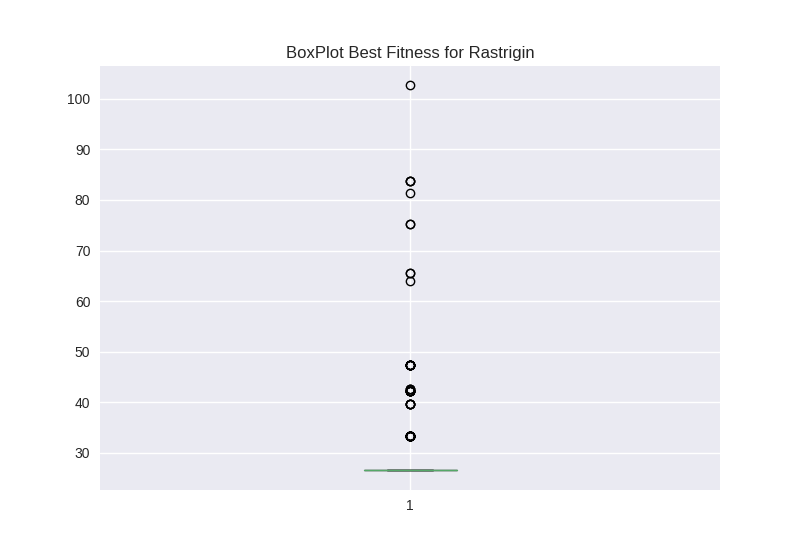
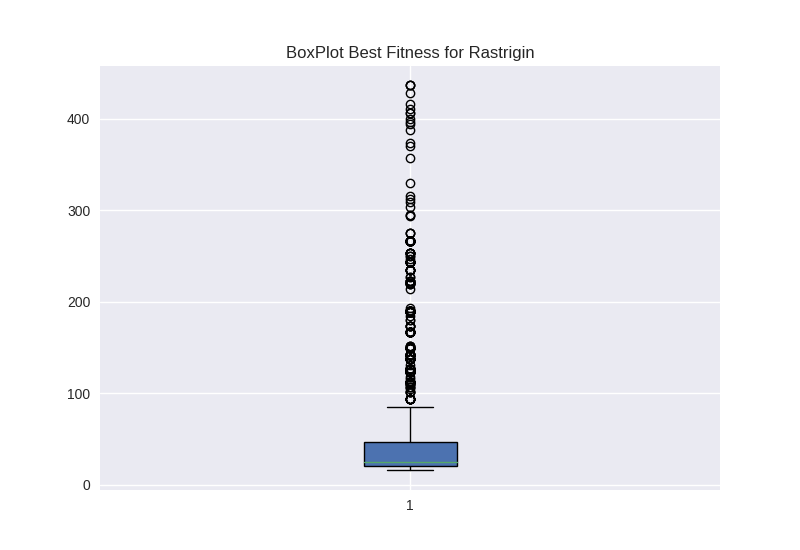
Working version of FSS

diff --git a/fish_school_search.py b/fish_school_search.py
@@ -7,6 +7,7 @@ import math
 from particle import Fish
 from parameters import num_of_individuos, dimensions, iterations_number
 
+np.random.seed(42)
 
 class FSS():
 
@@ -21,12 +22,12 @@ class FSS():
 
         # Params
         self.total_weight = 1 * self.num_of_individuos
-        self.initial_step_ind = 1
+        self.initial_step_ind = 0.1
         self.final_step_ind = 0.0001
-        self.step_ind = self.initial_step_ind
-        self.initial_step_vol = 1
+        self.step_ind = self.initial_step_ind * (objective_function.upper_bound - objective_function.lower_bound)
+        self.initial_step_vol = 0.01
         self.final_step_vol = 0.001
-        self.step_vol = self.initial_step_vol
+        self.step_vol = self.initial_step_vol * (objective_function.upper_bound - objective_function.lower_bound)
         self.list_global_best_values = []
 
     def search(self):
@@ -37,10 +38,10 @@ class FSS():
             self.updates_optimal_solution()
 
             self.apply_individual_movement()
-            self.apply_feeding()
-
             self.evaluate_cluster()
             self.updates_optimal_solution()
+
+            self.apply_feeding()
 
             self.apply_instintive_collective_movement()
             self.apply_collective_volitive_movement()
@@ -50,9 +51,8 @@ class FSS():
 
             self.evaluate_cluster()
             self.updates_optimal_solution()
-
             self.list_global_best_values.append(self.global_best)
-            # print("iter: {} = cost: {}".format(i, self.global_best))
+            print("iter: {} = cost: {}".format(i, self.global_best))
 
     def update_total_weight(self):
         self.total_weight = sum([fish.weight for fish in self.cluster])
@@ -105,8 +105,10 @@ class FSS():
             fish.update_position_volitive_movement(barycenter, self.step_vol, search_operator)
 
     def update_step(self, current_i):
-        self.step_ind = self.step_ind - current_i * float(self.final_step_ind - self.initial_step_ind)/iterations_number
-        self.step_vol = self.step_vol - current_i * float(self.final_step_vol - self.initial_step_vol)/iterations_number
+        self.step_ind = self.initial_step_ind - current_i * float(
+            self.initial_step_ind - self.final_step_ind) / iterations_number
+        self.step_vol = self.initial_step_vol - current_i * float(
+            self.initial_step_vol - self.final_step_vol) / iterations_number
 
     def _get_random_number(self):
         return np.random.uniform(self.function.lower_bound, self.function.upper_bound)

diff --git a/particle.py b/particle.py
@@ -3,6 +3,7 @@ import copy
 import random
 from parameters import dimensions, iterations_number
 
+np.random.seed(42)
 
 class Particle():
 
@@ -26,7 +27,7 @@ class Fish():
     def __init__(self, objective_function, positions):
         self.fitness_function = objective_function
         self.current_position = positions
-        self.weight = 1.0
+        self.weight = iterations_number / 2.0
         self.fitness = np.inf
         self.delta_fitness = 0
         self.delta_position = []
@@ -57,23 +58,21 @@ class Fish():
             self.delta_fitness = 0
 
     def feed(self, max_delta_fitness):
-        if max_delta_fitness < 1:
-            self.weight = 1
-        else:
+        if max_delta_fitness != 0:
             self.weight = self.weight + (self.delta_fitness / max_delta_fitness)
-
-        if self.weight > (iterations_number / 2.0):
-            self.weight = iterations_number / 2.0
+        else:
+            self.weight = 1
 
     def update_position_collective_movement(self, sum_delta_fitness):
-        collective_instinct = [pos * self.delta_fitness for pos in self.delta_position]
-
+        collective_instinct = []
+        for i, _ in enumerate(self.delta_position):
+            collective_instinct.append(self.delta_position[i] * self.delta_fitness)
         if sum_delta_fitness != 0:
             collective_instinct = [val / sum_delta_fitness for val in collective_instinct]
 
         new_positions = []
-        for pos, mov in zip(self.current_position, collective_instinct):
-            new = pos + mov
+        for i, _ in enumerate(self.current_position):
+            new = self.current_position[i] + collective_instinct[i]
             if new > self.fitness_function.upper_bound:
                 new = self.fitness_function.upper_bound
             elif new < self.fitness_function.lower_bound:
@@ -86,7 +85,7 @@ class Fish():
     def update_position_volitive_movement(self, barycenter, step_vol, search_operator):
         new_positions = []
         for i, pos in enumerate(self.current_position):
-            new = pos + ((((pos - barycenter[i])/ np.linalg.norm([self.current_position, barycenter])) * step_vol * np.random.uniform(0, 1)) * search_operator)
+            new = pos + (((pos - barycenter[i]) * step_vol * np.random.uniform(0, 1)) * search_operator)
             if new > self.fitness_function.upper_bound:
                 new = self.fitness_function.upper_bound
             elif new < self.fitness_function.lower_bound:

diff --git a/functions.py b/functions.py
@@ -1,53 +1,52 @@
 import math
-
+import numpy as np
 from abc import ABCMeta, abstractmethod
 
+np.random.seed(42)
 
 class AFunction:
-	__metaclass__ = ABCMeta
+    __metaclass__ = ABCMeta
 
-	upper_bound = 100
-	lower_bound = -100
+    upper_bound = 100
+    lower_bound = -100
 
-	@abstractmethod
-	def calculate_fitness(self, position):
-		pass
+    @abstractmethod
+    def calculate_fitness(self, position):
+        pass
 
 
 class Sphere(AFunction):
 
-	def __init__(self):
-		AFunction.upper_bound = 100
-		AFunction.lower_bound = -100
+    def __init__(self):
+        AFunction.upper_bound = 100
+        AFunction.lower_bound = -100
 
-	def calculate_fitness(self, position_list):
-		solution = 0
-		for position in position_list:
-			solution += position ** 2
-		return solution
+    def calculate_fitness(self, position_list):
+        solution = 0
+        for position in position_list:
+            solution += position ** 2
+        return solution
 
 
 class Rastrigin(AFunction):
 
-	def __init__(self):
-		AFunction.upper_bound = 5.12
-		AFunction.lower_bound = -5.12
+    def __init__(self):
+        AFunction.upper_bound = 5.12
+        AFunction.lower_bound = -5.12
 
-	def calculate_fitness(self, position_list):
-		solution = 0
-		for position in position_list:
-			solution += (position ** 2 - 10 * math.cos(2 * math.pi * position) + 10)
-		return solution
+    def calculate_fitness(self, x):
+        f_x = [xi ** 2 - 10 * math.cos(2 * math.pi * xi) + 10 for xi in x]
+        return sum(f_x)
 
 
 class Rosenbrocks(AFunction):
 
-	def __init__(self):
-		AFunction.upper_bound = 30
-		AFunction.lower_bound = -30
+    def __init__(self):
+        AFunction.upper_bound = 30
+        AFunction.lower_bound = -30
 
-	def calculate_fitness(self, position_list):
-		solution = 0
-		for i in range(0, len(position_list) - 1):
-			solution += (100 * ((position_list[i] ** 2 - position_list[i + 1]) ** 2) + ((position_list[i] - 1) ** 2))
-		return solution
+    def calculate_fitness(self, x):
+        sum_ = 0.0
+        for i in range(1, len(x) - 1):
+            sum_ += 100 * (x[i + 1] - x[i] ** 2) ** 2 + (x[i] - 1) ** 2
+        return sum_

diff --git a/parameters.py b/parameters.py
@@ -1,4 +1,4 @@
-iterations_number = 2500
+iterations_number = 10000
 num_of_individuos = 30
 probability_of_recombination = 0.6
-dimensions = 4
+dimensions = 30

diff --git a/main.py b/main.py
@@ -8,6 +8,8 @@ from parameters import iterations_number
 
 SIMULATIONS = 1
 
+np.random.seed(42)
+
 def rosenbrocks():
 	print('Rosenbrocks')
 
